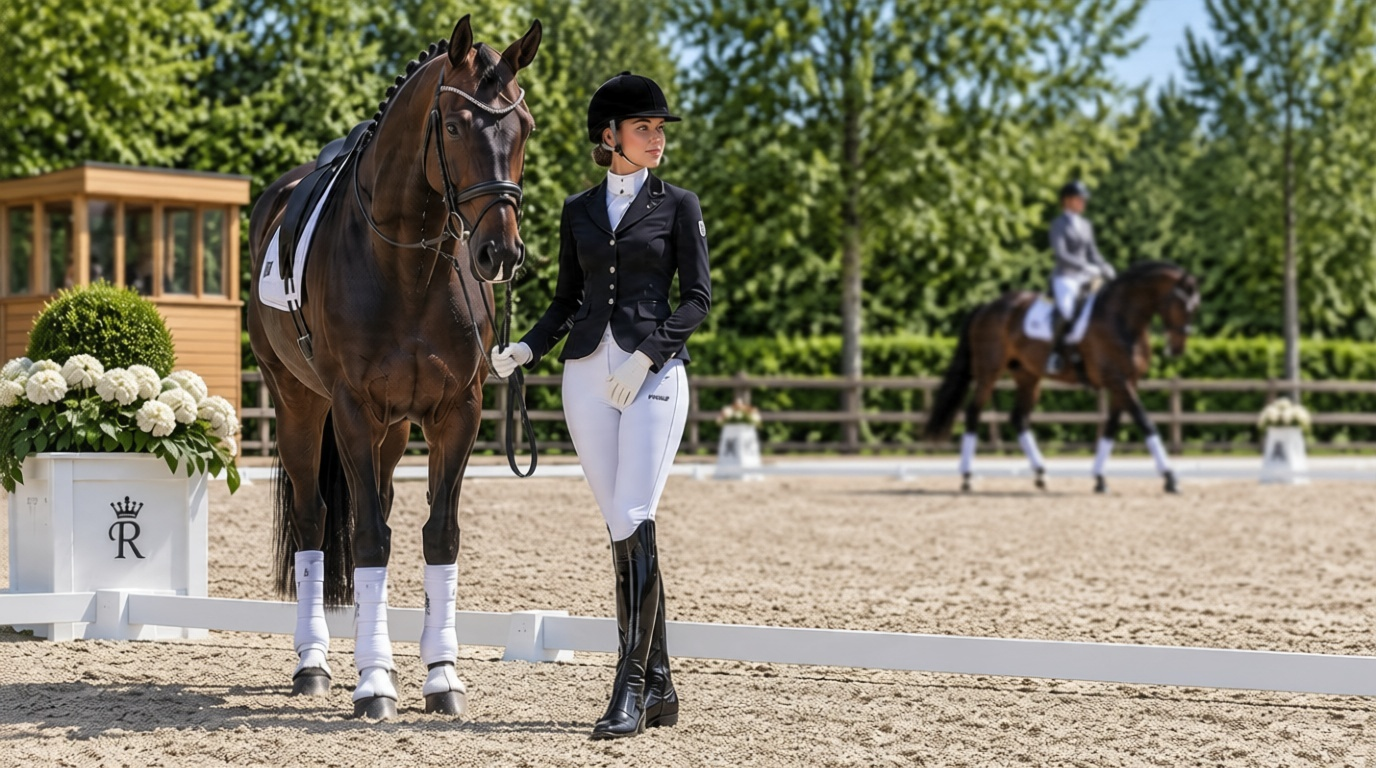
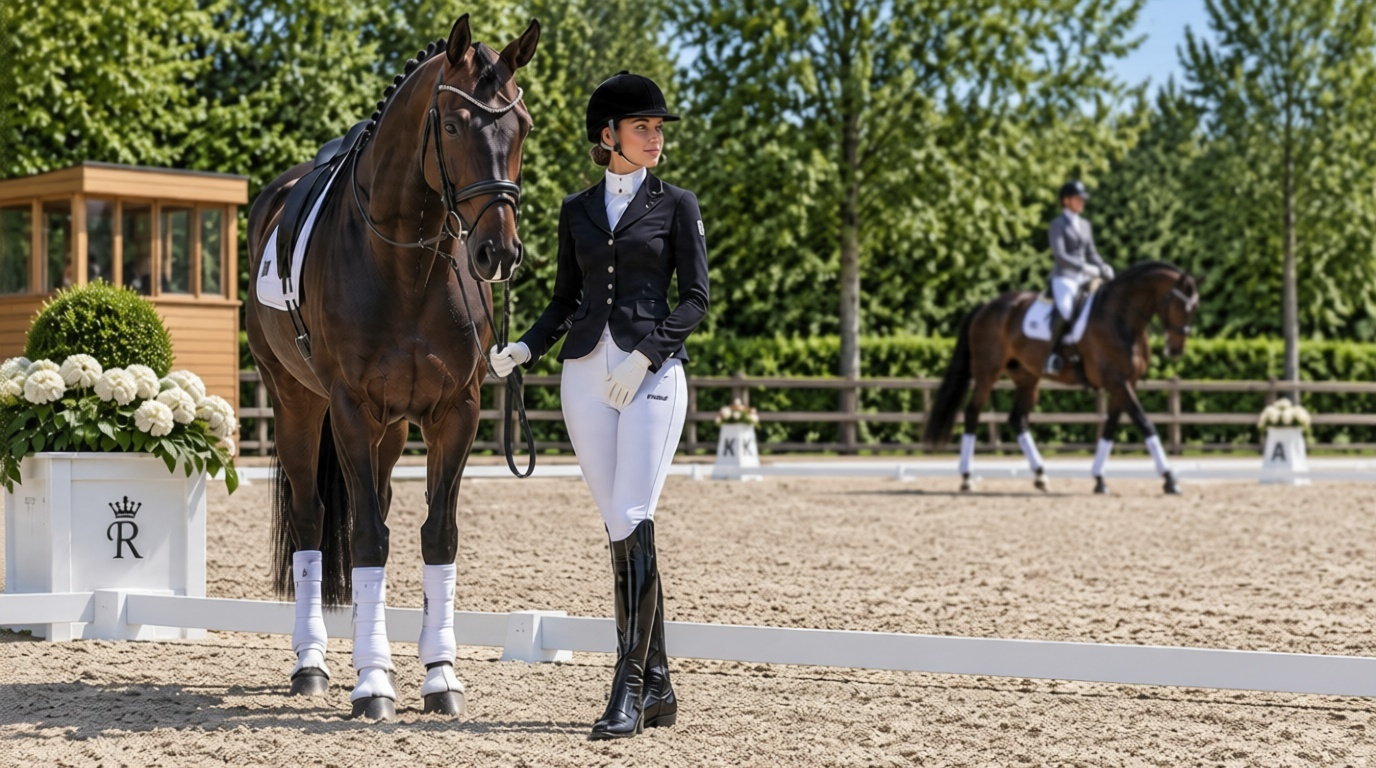
reitplatz: zweites Foto wählbar (Thumbnail-Chips) – Bild 2 'Elegante Dressur im sonnigen Reitplatz' als img/reiterin-dressurplatz-2.jpg + 4K; Blur/Tiefenmodell/Zoom gelten für beide

diff --git a/js/reitplatz.js b/js/reitplatz.js
@@ -3,7 +3,10 @@
 // jede mit eigenem Unschärfekreis aus der Optik-Physik (bokeh.js-Globals). Alles lokal.
 var R_MAX_AP = 16;          // Blenden-Regler geht bis f/16
 var R_PHOTO_W = 3840;       // Breite des Fotos img/reiterin-dressurplatz-4k.jpg in px
-var R_PHOTO = 'img/reiterin-dressurplatz-4k.jpg';
+var R_PHOTOS = [
+  { full: 'img/reiterin-dressurplatz-4k.jpg',   thumb: 'img/reiterin-dressurplatz.jpg',   label: 'Bild 1 · Porträt' },
+  { full: 'img/reiterin-dressurplatz-2-4k.jpg', thumb: 'img/reiterin-dressurplatz-2.jpg', label: 'Bild 2 · sonniger Platz' }
+];
 // Tiefen-Ebenen: d = Faktor auf den Motiv-Abstand s; Blur = Unschärfekreis/2 in CSS-px (skaliert auf Darstellungsbreite)
 var R_LAYERS = [
   { cls: 'l-far', d: 8,   label: 'Bäume/Himmel' },
@@ -26,7 +29,7 @@ function effBlurMm(uMm, sMm, f, n) { var b = blurMm(uMm, sMm, f, n); var d = air
 
 if (typeof document !== 'undefined' && document.getElementById('chips')) {
   var $ = function (id) { return document.getElementById(id); };
-  var st = { lens: null, sensor: BOKEH_SENSORS[0], n: 1.4, s: 3 };
+  var st = { lens: null, sensor: BOKEH_SENSORS[0], n: 1.4, s: 3, photo: 0 };
 
   function rStops() { return stopsFor(st.lens).filter(function (x) { return x <= R_MAX_AP; }); }
   function aovDeg() { return 2 * Math.atan(st.sensor.w / (2 * st.lens.f)) * 180 / Math.PI; }
@@ -37,10 +40,11 @@ if (typeof document !== 'undefined' && document.getElementById('chips')) {
   }
 
   function photoHtml() {
+    var src = R_PHOTOS[st.photo].full;
     return '<div class="photo">'
-      + '<img class="ph l-far" src="' + R_PHOTO + '" alt="" aria-hidden="true">'
-      + '<img class="ph l-mid" src="' + R_PHOTO + '" alt="" aria-hidden="true">'
-      + '<img class="ph l-fg" src="' + R_PHOTO + '" alt="Reiterin mit Samt-Showhelm, Reithose und Reitstiefeln am Pferd – im Hintergrund Dressurplatz mit Bande und zweiter Reiterin in der Versammlung">'
+      + '<img class="ph l-far" src="' + src + '" alt="" aria-hidden="true">'
+      + '<img class="ph l-mid" src="' + src + '" alt="" aria-hidden="true">'
+      + '<img class="ph l-fg" src="' + src + '" alt="Reiterin mit Samt-Showhelm, Reithose und Reitstiefeln am Pferd – im Hintergrund Dressurplatz mit Bande und zweiter Reiterin in der Versammlung">'
       + '</div>';
   }
 
@@ -113,6 +117,18 @@ if (typeof document !== 'undefined' && document.getElementById('chips')) {
   }
 
   function buildControls() {
+    var ph = '';
+    R_PHOTOS.forEach(function (p, i) {
+      ph += '<button type="button" class="pchip" data-i="' + i + '" aria-pressed="' + (i === 0 ? 'true' : 'false') + '" title="' + escHtml(p.label) + '"><img src="' + p.thumb + '" alt="' + escHtml(p.label) + '"></button>';
+    });
+    $('pchips').innerHTML = ph;
+    Array.prototype.forEach.call($('pchips').children, function (btn) {
+      btn.addEventListener('click', function () {
+        st.photo = +btn.getAttribute('data-i');
+        Array.prototype.forEach.call($('pchips').children, function (b) { b.setAttribute('aria-pressed', b === btn ? 'true' : 'false'); });
+        render();
+      });
+    });
     var h = '';
     R_CHIPS.forEach(function (c) {
       h += '<button type="button" class="chip" data-id="' + c.id + '" aria-pressed="false">' + c.mm + '&nbsp;mm</button>';

diff --git a/css/reitplatz.css b/css/reitplatz.css
@@ -20,3 +20,9 @@
     -webkit-mask-image: radial-gradient(ellipse 48% 55% at 38% 45%, #000 52%, transparent 78%);
     mask-image: radial-gradient(ellipse 48% 55% at 38% 45%, #000 52%, transparent 78%); }
   .hicon { width:30px; height:30px; border-radius:8px; vertical-align:-6px; margin-right:6px; border:1px solid var(--line); }
+  .pchips { display:flex; gap:8px; flex-wrap:wrap; margin-bottom:10px; }
+  .pchip { font:inherit; border:2px solid var(--line); border-radius:8px; padding:2px; background:var(--card); cursor:pointer; }
+  .pchip:hover { border-color:var(--accent); }
+  .pchip[aria-pressed="true"] { border-color:var(--accent); }
+  .pchip img { width:110px; height:auto; display:block; border-radius:6px; }
+  @media (prefers-color-scheme: dark) { .pchip { background:#262a33; } }

diff --git a/reitplatz.html b/reitplatz.html
@@ -50,6 +50,7 @@
 
 <div class="card">
   <h2>Foto: Dressurplatz</h2>
+  <div class="pchips" id="pchips" role="group" aria-label="Foto wählen"></div>
   <div id="scene"></div>
   <div id="dofbar"></div>
   <p id="dofOut" class="hint"></p>

diff --git a/README.md b/README.md
@@ -25,7 +25,7 @@ Digitales Formular für **Arbeitsauftrag und Notfallorganisation im Forst** (nac
 - **GPX-Reduktion für Garmin** (`gpx-reduce.html`, eigene Seite): Gaia-GPX mit zu vielen Punkten auf ein Garmin-Limit reduzieren – Douglas-Peucker mit automatischer Toleranz, Start/Ziel und benannte Punkte (inkl. Namen) bleiben immer erhalten, Export als Track und/oder Route mit SVG-Vorschau und optional darunterlegbarer OpenStreetMap-Karte inkl. GPX-Punkten (Leaflet, lädt erst beim Anhaken) – dabei wählbarer GPX-Type (type-Eintrag), Standard „Direkt (direct)“: schreibt pro Routenpunkt trp:CalculationMode „Direct“ (BaseCamp „Direkte Route“ – Direktrouting mit geraden Linien, bis 250 Punkte) statt Straßen-Routing/Standard-Profil („Geländewagen“); alternativ z. B. „Wandern (hiking)“. Reine lokale HTML-Datei, keine Abhängigkeiten.
 - **Sonne & Mond für Fotografen** (`sonne-mond.html`, eigene Seite): Koordinate eingeben (WGS84 Dezimal, Grad/Min/Sek, Dezimalminuten oder LV95 – plus Ortssuche (Nominatim + Photon/OpenStreetMap, mit Näherungs-Bias via viewbox/lat-lon (um den Gerätestandort via Geolokalisierung – Schalter «📍 lokal priorisieren» – oder um die gesetzte Koordinate), Adressdetails, Duplikat-Filter und «📍 Mein Gerätestandort» als Treffer – z. B. «San Andrés Kanarische Inseln»; tolerant gegen Gross-/Kleinschreibung, Akzente und Tippfehler (Query-Normalisierung, letzte Wort wird notfalls abgeschnitten, Levenshtein-Re-Ranking der Treffer; bei gesetztem Bias wird zusätzlich weltweit ohne viewbox/lat-lon gesucht und exakt passende Namen (z. B. «Eiffelturm») stehen ganz oben); Ortsname in der Info-Zeile: bei «Meine Position» / manuellem Koordinateingabe / abweichenden URL-Koordinaten wird der alte Name verworfen und per Nominatim-Reverse neu ermittelt – offline Fallback auf die lokale Ortsdatenbank `js/ort-db.js` (lazy, rund 290 000 Orte: GeoNames allCountries weltweit ALLE Siedlungen ≥ 50 Einw. + kuratiert; nächster Eintrag ≤ 60 km als «≈ Name (ca. x km)»). Optional serverseitig (PHP+MySQL, nicht auf GitHub Pages): `ort-db.sql` importieren + `ort-db.php` – sonne-mond.html fragt dann zuerst `ort-db.php?lat=..&lon=..&maxkm=60` ab (same-origin, 4 s Timeout) und fällt auf die lokale JS-DB zurück. Editor-Maske: `ort-db-editor.html` (suchen/hinzufülgen/löschen, lokal in localStorage, Export als js/ort-db.js / ort-db.sql / CSV zum Committen); Vergleich Apple/iPhone: iPhone-Fotos bekommen den Ort zur Koordinate serverseitig via `CLGeocoder` (Apple-Server, proprietäre POI-Datenbank + lokaler Cache; offline kaum möglich) – hier lokal/datensparsam: Nominatim-Reverse (Open Data) bzw. `js/ort-db.js` (289 876 GeoNames-Siedlungen ≥ 50 Einw., lazy, offline «≈ Name (ca. x km)») oder `ort-db.php` (MySQL). USA-Bundesstaat (z. B. «Springfield MA») oder europäisches Land (z. B. «Zermatt Schweiz», «Zermatt CH», «Paris Frankreich», «Lissabon Portugal») am Ende des Suchbegriffs schränkt automatisch auf das jeweilige Land ein (countrycodes=us bzw. ch/fr/pt …; 2-Buchstaben-Codes als Grossbuchstaben, sonst Land voll ausschreiben wie «Berlin Deutschland»; Schweizer Kanton (z. B. «Küsnacht ZH», «Lausanne VD») schränkt auf die Schweiz ein (countrycodes=ch) – und «Meine Position») und Datum wählen (per Maus-Kalender 📅, Datum-Eingabefeld oder «◀ −1 Tag / +1 Tag ▶») → Sonnenauf-/untergang, Blaue Stunde (−6° bis −4°), Goldene Stunde (−4° bis +6°), Wahrer Mittag (Höchststand mit Höhe/Azimut), alle Dämmerungsgrenzen, Tageslänge (inkl. ausklappbarer Tabelle über einen Zeitraum mit Von/Bis-Kalender, Liniendiagramm und Δ; kompakt: scrollbar mit sticky Header, default 10 Zeilen (erster+letzter Tag, dazwischen gleichmäßig verteilt) + Checkbox „alle Tage anzeigen“, Gruppierung nach Monat, CSV-Export (Δ < 1 min als Sekunden; Meta-Zeile # Ort/Lat/Lon/TZ/Zeitraum/Export; Spalten Tageslaenge_h/Lat/Lon/TZ; Ort im Dateinamen) + Diagramm als SVG-Download; + Jahresgrafik: Ausklappmenü «📈 Tageslänge übers ganze Jahr» (SVG: 365 Tage, Monatsachse, längster/kürzester Tag, Heute-Marker; Basis = Koordinate unter «Ort & Tag» + Jahr des gewählten Datums, Orts-Zeitzone; `yearLenChartSvg(days, todayStr)`) 🗑-Button löscht Von/Bis und blendet Diagramm+Tabelle aus (Neu-Eingabe rechnet wieder); Pep: sortierbare Spalten, Δ-Pfeile + Farben (< 1 min in Sekunden), „heute“-Badge, Zebra+Hover, Monatszeilen mit Farbverlauf je Monat (--dlmh-Hue, Light+Dark), Zeile↔Diagramm-Hover), Mondauf-/untergang, Mondphase mit tagesaktuellem Phasen-Icon (🌑–🌘, z. B. 🌕 bei Vollmond) und gebräuchlichen Namen (Neumond, Sichelmond, Halbmond, Vollmond …), Beleuchtung und Alter, dazu ausklappbare «Besondere Mond-Daten» (Blauer Mond = 2. Vollmond im Monat, Blutmond/Mondfinsternis total-partiell-Halbschatten, Supermond/Mikromond, nächste Finsternis & nächster Blauer Mond) – als Status-Karte mit nächstem Ereignis, klickbare Himmelsbahn (Azimut/Höhe) mit Zeitschieber, 24-Stunden-Balken und Tabelle (pro Ereignis Zeit + Höhe + Azimut – auch für Goldene/Blaue Stunde, Tageslicht und Mondauf-/untergang; dazu Milchstrasse: Kulmination des galaktischen Zentrums und «lohnenswert?»-Einschätzung inkl. Mond-Störung). Sonne nach NOAA-Formeln, Mond nach Meeus/ELP2000-82 (gekürzte Serie, 60+60 Störungsterme + Gezeiten-Beschleunigung −25,858″/cy² in der mittleren Länge – ca. 10″ in der Länge nahe 2000, brauchbar über Jahrtausende; gegen Meeus-Referenz 12.04.1992 und Finsternis 29.05.1919 verifiziert; Finsternis-Typ total/partiell/Halbschatten daraus abgeleitet) – komplett lokal berechnet, auch offline nutzbar; teilbarer Link über URL-Parameter (?lat&lon&datum). Eigenes SVG-Icon `img/sonne-mond.svg` (Sonne + Mond-Sichel, Stil wie `img/motorsaege.svg`) als Favicon und im Header; animierter CSS-Hintergrund (Sonne und Mond laufen auf gegenläufigen Bögen wie Gezeiten, respektiert `prefers-reduced-motion`). Zeitabgleich: Die aktuelle Uhrzeit wird zuerst von externen Zeitquellen geholt, ohne Internet automatisch von der Systemuhr. Zeitzone des Ortes: wird aus den Koordinaten via Open-Meteo (`timezone=auto`, z. B. `Atlantic/Canary`) ermittelt; alle angezeigten Zeiten (Uhr, Ereignisse, Tag) gelten in der Orts-Zeitzone (steht in der Info-Zeile unter den Aktions-Buttons im Ort-&-Tag-Kasten, z. B. «Atlantic/Canary (UTC+0)») – offline Fallback: Geräte-Zeitzone – alternativ kann offline manuell eine Zeitzone eingegeben werden – UTC−12…UTC+14 (inkl. :30/:45) oder ein Stadtname (kuratierte Liste: Paris, Rom, New York, San Francisco, Tenerife … – plus alle IANA-Zeitzonen des Browsers via Intl.supportedValuesOf, also auch Ho Chi Minh, Ulan Bator usw.; mit Autovervollständigung; Aliase/Akzente egal; mehrsprachige Aliase de/en/fr/it/es – z. B. Venise, Ginevra, Copenhague, Pékin, Islas Canarias, Le Cap, La Habana), Anzeige z. B. «Europe/Paris (UTC+1) manuell» oder «UTC+2 (manuell)». Automatisch werden nur parameterfreie URLs abgefragt (Cloudflare cdn-cgi/trace, worldtimeapi.org/api/ip, Open-Meteo mit UTC/0,0, HTTP-Date-Header per HEAD) – datenschutzfreundlich und abschaltbar; time.gov (NIST) ist als Referenz in der Quellenliste auf der Seite aufgeführt (Daytime-Protokoll TCP/13 ist aus Browsern nicht nutzbar). Sicherheit: auf ALLEN 5 Seiten `script-src` OHNE 'unsafe-inline' (gpx-reduce/koordinaten/datenschutz JS extern in js/gpx-reduce.js, js/koordinaten.js, js/datenschutz.js) (injiziertes Inline-Script wird blockiert), Framebusting als externes `js/framebust.js` auf allen Seiten, Permissions-Policy (camera/mic/payment/usb aus, geolocation nur self), OSM-Iframe mit `sandbox="allow-scripts"`, counter.php mit nosniff/CSP/Referrer-Policy-Headern, Leaflet gepinnt + SRI. Ausgelagert & cachebar: `sonne-mond.html` selbst ist nur noch ~17 KB – CSS in `css/sonne-mond.css`, Logik in `js/sonne-mond.js`, Framebusting in `js/framebust.js`. Lazy Loading: nur das Nötige wird geladen – `js/tz-cities.js` (Zeitzonen-Städte, erst wenn das manuelle Feld gebraucht wird), `js/ort-suche-data.js` (Ortssuche-Daten, erst beim ersten Fokus/Tippen im Ortsfeld), Übersetzungen: `index.html` lädt nur `js/texte-de.js` (andere Sprachen per `ladeTexte()` on-demand), `koordinaten/index.html` behält nur `de` inline (en/fr/it/es in `js/konv-texte-*.js`, lazy via `ladeKonvTexte()`).
 - **Schärfentiefe & Bokeh** (`bokeh.html`, eigene Seite, verlinkt aus sonne-mond.html): Linsen-Datenbank (`js/bokeh-linsen.js`, 45+ Optiken in Gruppen + 5 Sensorformate) – Blende- und Abstands-Slider, SVG-Szene mit Weichzeichnung je Objekt (scharf/unscharf beschriftet), DOF-Balken (scharf-Zone, Motiv-Marke, Hyperfokus), Bokeh-Lichter mit Ø in px, Zahlenausgabe (CoC, Hyperfokus, scharf von–bis). Physik lokal: CoC = Sensor-Diagonale/1500, H = f²/(N·c)+f, DOF-Näherung, Unschärfekreis b = f²/N·|s−u|/(u·(s−f)). Komplett offline, CSP self-only.
-- **Reitplatz & Blende** (`reitplatz.html`, eigene Seite, verlinkt aus `bokeh.html`): interaktives Foto (`img/reiterin-dressurplatz-4k.jpg` (4K, 3840×2906; Basis: `img/reiterin-dressurplatz.jpg`): Reiterin mit Helm & Stiefeln scharf im Vordergrund, zweite Reiterin in der Versammlung im Hintergrund; Vordergrund per CSS-Maske scharf gehalten, dreilagiges Tiefenmodell per `blur()`, Unschärfekreis = Quadratur aus geometrischem Defokus (b = f²/N·|s−u|/(u·(s−f))) und Beugung (Airy d = 2,44·λ·N, λ = 550 nm); dazu Zoom/Bildwinkel (Ausschnitt scale(f/50), Bildwinkel 2·atan(sensor.w/2f))) – Blenden-Regler von f/1.4 bis f/16 mit allen Stufen dazwischen, Objektiv-Schnellwahl 20/24/28/35/50/85 mm als Chips, Sensor wählbar; Hintergrund-Weichzeichnung je Objekt per feGaussianBlur aus derselben Physik wie `bokeh.html` (`js/reitplatz.js` nutzt die Globals aus `js/bokeh.js`), inkl. DOF-Balken und Zahlenausgabe (Hyperfokus, scharf von–bis, Bokeh-Ø). Komplett offline, CSP self-only.
+- **Reitplatz & Blende** (`reitplatz.html`, eigene Seite, verlinkt aus `bokeh.html`): zwei wählbare Fotos (`img/reiterin-dressurplatz-4k.jpg` und `img/reiterin-dressurplatz-2-4k.jpg`, je 4K; Basen `img/reiterin-dressurplatz.jpg` / `img/reiterin-dressurplatz-2.jpg`) (4K, 3840×2906; Basis: `img/reiterin-dressurplatz.jpg`): Reiterin mit Helm & Stiefeln scharf im Vordergrund, zweite Reiterin in der Versammlung im Hintergrund; Vordergrund per CSS-Maske scharf gehalten, dreilagiges Tiefenmodell per `blur()`, Unschärfekreis = Quadratur aus geometrischem Defokus (b = f²/N·|s−u|/(u·(s−f))) und Beugung (Airy d = 2,44·λ·N, λ = 550 nm); dazu Zoom/Bildwinkel (Ausschnitt scale(f/50), Bildwinkel 2·atan(sensor.w/2f))) – Blenden-Regler von f/1.4 bis f/16 mit allen Stufen dazwischen, Objektiv-Schnellwahl 20/24/28/35/50/85 mm als Chips, Sensor wählbar; Hintergrund-Weichzeichnung je Objekt per feGaussianBlur aus derselben Physik wie `bokeh.html` (`js/reitplatz.js` nutzt die Globals aus `js/bokeh.js`), inkl. DOF-Balken und Zahlenausgabe (Hyperfokus, scharf von–bis, Bokeh-Ø). Komplett offline, CSP self-only.
 
 
 - **Mehrsprachig**: Deutsch, Français, Italiano, Español, Português – über den Sprachwähler oben rechts. Die Auswahl wird gespeichert; auch Gefahren-Chips, Druckblatt und Notfallkarte erscheinen in der gewählten Sprache. Die Übersetzungen liegen in `js/texte-*.js` (eine Datei pro Sprache) und können leicht angepasst werden.
